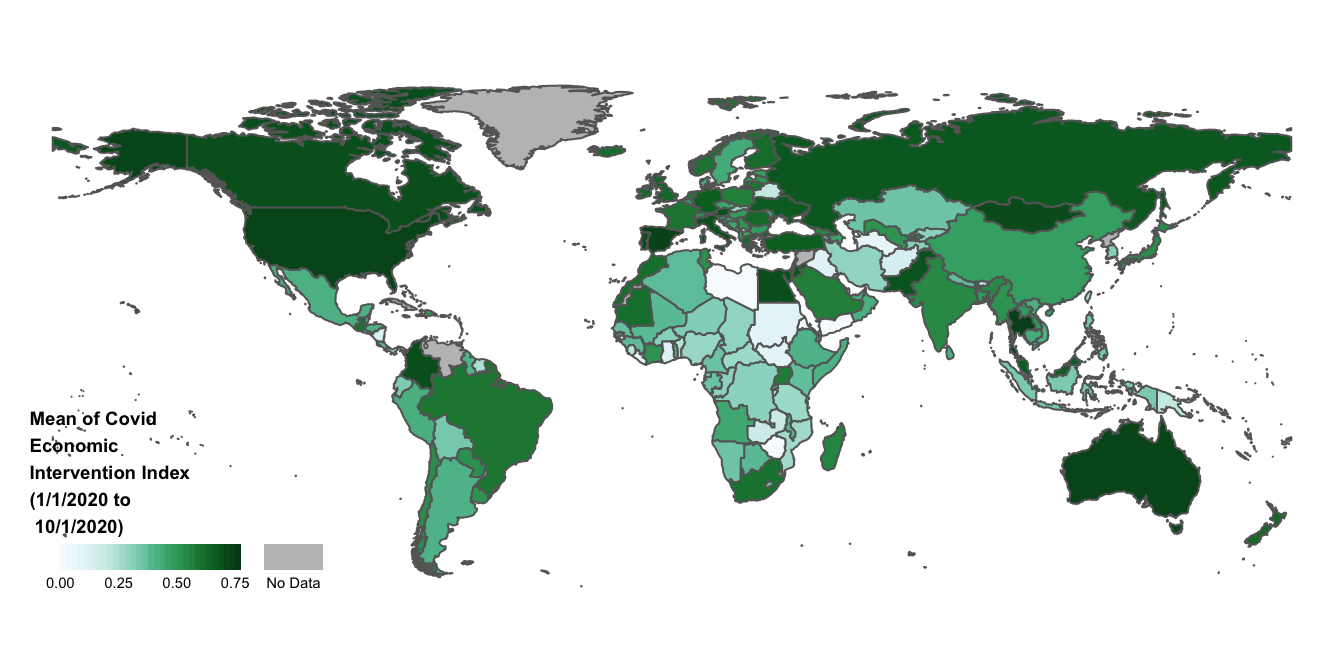
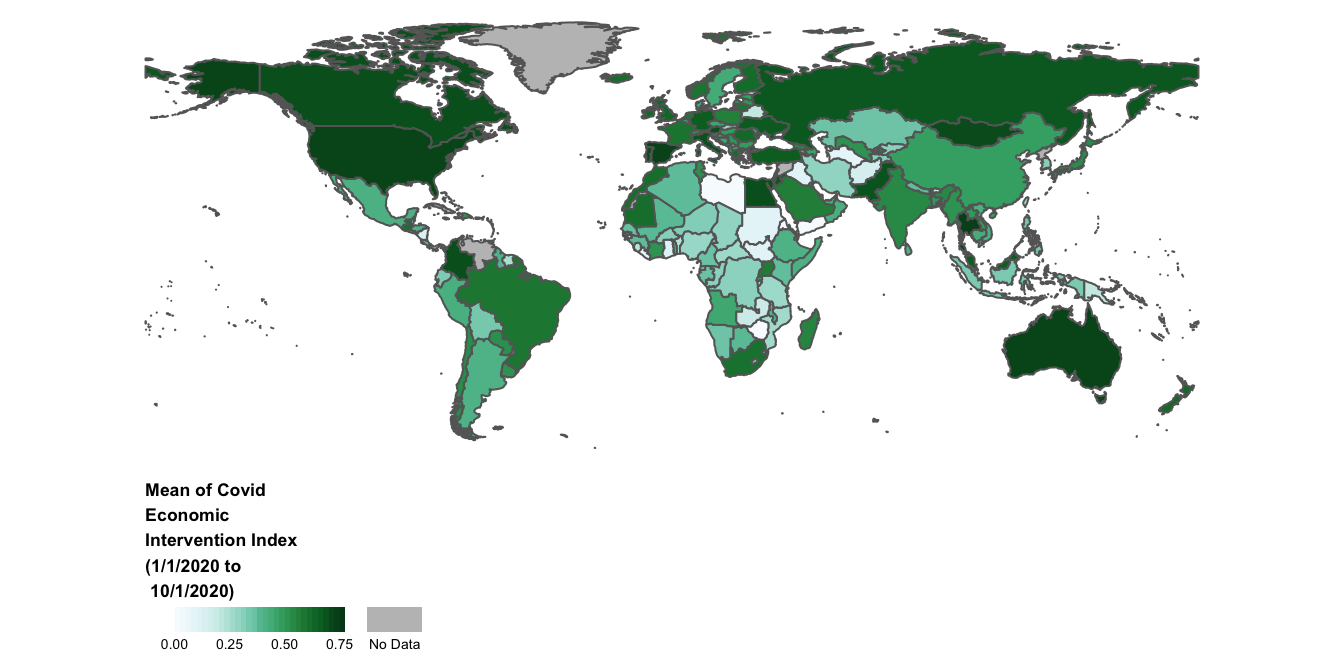
moves legend outside frame

diff --git a/docs/tutorial.html b/docs/tutorial.html
@@ -497,11 +497,12 @@ The <code>tm_polygons</code> function can take a variety of arguments that can h
 <span id="cb41-8"><a href="tutorial.html#cb41-8" aria-hidden="true" tabindex="-1"></a>                                  <span class="at">breaks=</span><span class="fu">c</span>(<span class="dv">0</span>,<span class="fl">0.25</span>,<span class="fl">0.5</span>, <span class="fl">0.75</span>))<span class="sc">+</span></span>
 <span id="cb41-9"><a href="tutorial.html#cb41-9" aria-hidden="true" tabindex="-1"></a>                      <span class="fu">tm_layout</span>(<span class="at">legend.title.size=</span><span class="fl">0.7</span>, </span>
 <span id="cb41-10"><a href="tutorial.html#cb41-10" aria-hidden="true" tabindex="-1"></a>                                <span class="at">legend.title.fontface=</span><span class="dv">2</span>,</span>
-<span id="cb41-11"><a href="tutorial.html#cb41-11" aria-hidden="true" tabindex="-1"></a>                                <span class="at">legend.position =</span> <span class="fu">c</span>(<span class="dv">0</span>, <span class="dv">0</span>), </span>
-<span id="cb41-12"><a href="tutorial.html#cb41-12" aria-hidden="true" tabindex="-1"></a>                                <span class="at">frame=</span><span class="cn">FALSE</span>, </span>
-<span id="cb41-13"><a href="tutorial.html#cb41-13" aria-hidden="true" tabindex="-1"></a>                                <span class="at">legend.text.size =</span> <span class="fl">0.5</span>,</span>
-<span id="cb41-14"><a href="tutorial.html#cb41-14" aria-hidden="true" tabindex="-1"></a>                                <span class="at">legend.width =</span> <span class="fl">0.35</span>)</span>
-<span id="cb41-15"><a href="tutorial.html#cb41-15" aria-hidden="true" tabindex="-1"></a>covid_economic_map</span></code></pre></div>
+<span id="cb41-11"><a href="tutorial.html#cb41-11" aria-hidden="true" tabindex="-1"></a>                                <span class="at">legend.outside=</span><span class="cn">TRUE</span>,</span>
+<span id="cb41-12"><a href="tutorial.html#cb41-12" aria-hidden="true" tabindex="-1"></a>                                <span class="at">legend.outside.position =</span> <span class="fu">c</span>(<span class="st">&quot;bottom&quot;</span>), </span>
+<span id="cb41-13"><a href="tutorial.html#cb41-13" aria-hidden="true" tabindex="-1"></a>                                <span class="at">frame=</span><span class="cn">FALSE</span>, </span>
+<span id="cb41-14"><a href="tutorial.html#cb41-14" aria-hidden="true" tabindex="-1"></a>                                <span class="at">legend.text.size =</span> <span class="fl">0.5</span>,</span>
+<span id="cb41-15"><a href="tutorial.html#cb41-15" aria-hidden="true" tabindex="-1"></a>                                <span class="at">legend.width =</span> <span class="fl">0.35</span>)</span>
+<span id="cb41-16"><a href="tutorial.html#cb41-16" aria-hidden="true" tabindex="-1"></a>covid_economic_map</span></code></pre></div>
 <p><img src="bookdownproj_files/figure-html/unnamed-chunk-50-1.png" width="672" /></p>
 <p>Let’s unpack this code; for the sake of completeness, we’ll go over all of the functions and arguments, rather than just the code that implements the changes mentioned above.</p>
 <p>Above, to the right of the assignment operator, we have:</p>
@@ -513,18 +514,18 @@ The <code>tm_polygons</code> function can take a variety of arguments that can h
 <li><code>style=cont</code> indicates that we want a continuous legend</li>
 <li><code>palette="BuGn"</code> specifies the color scheme we wish to use to represent variation in the data.</li>
 <li><code>textNA="No Data</code> indicates that we want data coded as “NA” to be labeled “No Data” in our legend; the default label is “Missing”</li>
-<li><code>title=Mean of Covid Economic\nIntervention Index\n(1/1/2020 to 10/1/2020)"</code> specifies the title of the legend. The <code>\n</code> notation is used to indicate line breaks. If these are not included, the legend title would be one line, rather than three.</li>
+<li><code>title="Mean of Covid\nEconomic\nIntervention Index\n(1/1/2020 to\n 10/1/2020)"</code> specifies the title of the legend. The <code>\n</code> notation is used to indicate line breaks. If these are not included, the legend title would not contain line breaks, and would be one line. .</li>
 <li><code>legend.is.portrait=FALSE</code> flips the legend, making its orientation horizontal rather than vertical</li>
 <li><code>breaks=c(0,0.25,0.5,0.75)</code> specifies our custom breaks (for values of the Covid economic index) in the legend.</li>
 </ul></li>
 <li>The <code>tm_layout</code> function also takes many arguments:
 <ul>
-<li><code>legend.title.size=0.8</code> sets the size of the text in the legend’s title</li>
+<li><code>legend.title.size=0.7</code> sets the size of the text in the legend’s title</li>
 <li><code>legend.title.fontface=2</code> makes the legend title bold.</li>
-<li><code>legend.position = c("left", "bottom")</code> positions the legend at the bottom-left of the map</li>
+<li><code>legend.position = c(0, 0)</code> positions the legend at the bottom-left of the map</li>
 <li><code>frame=FALSE</code> removes the frame from the map</li>
 <li><code>legend.text.size=0.5</code> specifies the size of the legend text that is not part of the legend title</li>
-<li><code>legend.hist.size=0.5</code> specifies the size of the graphical part of the legend</li>
+<li><code>legend.width=0.5</code> specifies the width of the legend</li>
 </ul></li>
 </ul>
 <p>The best way to get a sense of how all of these various arguments work is to try changing the values of the arguments and inspect their effect on the map’s appearance.</p>
@@ -539,11 +540,12 @@ The <code>tm_polygons</code> function can take a variety of arguments that can h
 <span id="cb42-5"><a href="tutorial.html#cb42-5" aria-hidden="true" tabindex="-1"></a>                                 <span class="at">inner.margins=</span><span class="fu">c</span>(<span class="fl">0.06</span>,<span class="fl">0.10</span>,<span class="fl">0.10</span>,<span class="fl">0.08</span>), </span>
 <span id="cb42-6"><a href="tutorial.html#cb42-6" aria-hidden="true" tabindex="-1"></a>                                 <span class="at">attr.outside =</span> <span class="cn">TRUE</span>)<span class="sc">+</span></span>
 <span id="cb42-7"><a href="tutorial.html#cb42-7" aria-hidden="true" tabindex="-1"></a>                        <span class="fu">tm_credits</span>(<span class="st">&quot;Map Author: Aditya Ranganath</span><span class="sc">\n</span><span class="st">Dataset Author: Simon Porcher</span><span class="sc">\n</span><span class="st">CRS: WGS1984</span><span class="sc">\n</span><span class="st">Source: ICPSR&quot;</span>, </span>
-<span id="cb42-8"><a href="tutorial.html#cb42-8" aria-hidden="true" tabindex="-1"></a>                                   <span class="at">position=</span><span class="fu">c</span>(<span class="fl">0.78</span>,<span class="dv">0</span>), <span class="at">size=</span><span class="fl">0.38</span>)</span>
-<span id="cb42-9"><a href="tutorial.html#cb42-9" aria-hidden="true" tabindex="-1"></a>  </span>
-<span id="cb42-10"><a href="tutorial.html#cb42-10" aria-hidden="true" tabindex="-1"></a>covid_economic_map </span></code></pre></div>
+<span id="cb42-8"><a href="tutorial.html#cb42-8" aria-hidden="true" tabindex="-1"></a>                                   <span class="at">position=</span><span class="fu">c</span>(<span class="fl">0.78</span>,<span class="dv">0</span>), </span>
+<span id="cb42-9"><a href="tutorial.html#cb42-9" aria-hidden="true" tabindex="-1"></a>                                   <span class="at">size=</span><span class="fl">0.38</span>)</span>
+<span id="cb42-10"><a href="tutorial.html#cb42-10" aria-hidden="true" tabindex="-1"></a>  </span>
+<span id="cb42-11"><a href="tutorial.html#cb42-11" aria-hidden="true" tabindex="-1"></a>covid_economic_map </span></code></pre></div>
 <p><img src="bookdownproj_files/figure-html/unnamed-chunk-51-1.png" width="672" /></p>
-<p>Final code</p>
+<p>Final Code</p>
 <div class="sourceCode" id="cb43"><pre class="sourceCode r"><code class="sourceCode r"><span id="cb43-1"><a href="tutorial.html#cb43-1" aria-hidden="true" tabindex="-1"></a>covid_economic_map<span class="ot">&lt;-</span> <span class="fu">tm_shape</span>(worldmap_covid_data_economic)<span class="sc">+</span></span>
 <span id="cb43-2"><a href="tutorial.html#cb43-2" aria-hidden="true" tabindex="-1"></a>  <span class="fu">tm_polygons</span>(<span class="at">col=</span><span class="st">&quot;mean_economic&quot;</span>, </span>
 <span id="cb43-3"><a href="tutorial.html#cb43-3" aria-hidden="true" tabindex="-1"></a>              <span class="at">style=</span><span class="st">&quot;cont&quot;</span>, </span>
@@ -554,19 +556,21 @@ The <code>tm_polygons</code> function can take a variety of arguments that can h
 <span id="cb43-8"><a href="tutorial.html#cb43-8" aria-hidden="true" tabindex="-1"></a>              <span class="at">breaks=</span><span class="fu">c</span>(<span class="dv">0</span>,<span class="fl">0.25</span>,<span class="fl">0.5</span>, <span class="fl">0.75</span>))<span class="sc">+</span></span>
 <span id="cb43-9"><a href="tutorial.html#cb43-9" aria-hidden="true" tabindex="-1"></a>  <span class="fu">tm_layout</span>(<span class="at">legend.title.size=</span><span class="fl">0.7</span>, </span>
 <span id="cb43-10"><a href="tutorial.html#cb43-10" aria-hidden="true" tabindex="-1"></a>            <span class="at">legend.title.fontface=</span><span class="dv">2</span>,</span>
-<span id="cb43-11"><a href="tutorial.html#cb43-11" aria-hidden="true" tabindex="-1"></a>            <span class="at">legend.position =</span> <span class="fu">c</span>(<span class="dv">0</span>,<span class="dv">0</span>), </span>
-<span id="cb43-12"><a href="tutorial.html#cb43-12" aria-hidden="true" tabindex="-1"></a>            <span class="at">frame=</span><span class="cn">FALSE</span>, </span>
-<span id="cb43-13"><a href="tutorial.html#cb43-13" aria-hidden="true" tabindex="-1"></a>            <span class="at">legend.text.size =</span> <span class="fl">0.5</span>,</span>
-<span id="cb43-14"><a href="tutorial.html#cb43-14" aria-hidden="true" tabindex="-1"></a>            <span class="at">legend.width=</span><span class="fl">0.35</span>,</span>
-<span id="cb43-15"><a href="tutorial.html#cb43-15" aria-hidden="true" tabindex="-1"></a>            <span class="at">main.title=</span><span class="st">&quot;National Economic Support Measures</span><span class="sc">\n</span><span class="st">in Response to the Covid-19 Pandemic&quot;</span>, </span>
-<span id="cb43-16"><a href="tutorial.html#cb43-16" aria-hidden="true" tabindex="-1"></a>            <span class="at">main.title.position=</span><span class="st">&quot;center&quot;</span>,</span>
-<span id="cb43-17"><a href="tutorial.html#cb43-17" aria-hidden="true" tabindex="-1"></a>            <span class="at">main.title.size=</span><span class="dv">1</span>, <span class="at">inner.margins=</span><span class="fu">c</span>(<span class="fl">0.06</span>,<span class="fl">0.10</span>,<span class="fl">0.10</span>,<span class="fl">0.08</span>), </span>
-<span id="cb43-18"><a href="tutorial.html#cb43-18" aria-hidden="true" tabindex="-1"></a>            <span class="at">attr.outside =</span> <span class="cn">TRUE</span>)<span class="sc">+</span></span>
-<span id="cb43-19"><a href="tutorial.html#cb43-19" aria-hidden="true" tabindex="-1"></a>  <span class="fu">tm_credits</span>(<span class="st">&quot;Map Author: Aditya Ranganath</span><span class="sc">\n</span><span class="st">Dataset Author: Simon Porcher</span><span class="sc">\n</span><span class="st">CRS: WGS1984</span><span class="sc">\n</span><span class="st">Source: ICPSR&quot;</span>, </span>
-<span id="cb43-20"><a href="tutorial.html#cb43-20" aria-hidden="true" tabindex="-1"></a>            <span class="at">position=</span><span class="fu">c</span>(<span class="fl">0.78</span>,<span class="dv">0</span>), </span>
-<span id="cb43-21"><a href="tutorial.html#cb43-21" aria-hidden="true" tabindex="-1"></a>            <span class="at">size=</span><span class="fl">0.38</span>)</span>
-<span id="cb43-22"><a href="tutorial.html#cb43-22" aria-hidden="true" tabindex="-1"></a></span>
-<span id="cb43-23"><a href="tutorial.html#cb43-23" aria-hidden="true" tabindex="-1"></a>covid_economic_map</span></code></pre></div>
+<span id="cb43-11"><a href="tutorial.html#cb43-11" aria-hidden="true" tabindex="-1"></a>            <span class="at">legend.outside=</span><span class="cn">TRUE</span>,</span>
+<span id="cb43-12"><a href="tutorial.html#cb43-12" aria-hidden="true" tabindex="-1"></a>            <span class="at">legend.outside.position=</span><span class="fu">c</span>(<span class="st">&quot;bottom&quot;</span>),</span>
+<span id="cb43-13"><a href="tutorial.html#cb43-13" aria-hidden="true" tabindex="-1"></a>            <span class="at">frame=</span><span class="cn">FALSE</span>, </span>
+<span id="cb43-14"><a href="tutorial.html#cb43-14" aria-hidden="true" tabindex="-1"></a>            <span class="at">legend.text.size =</span> <span class="fl">0.5</span>,</span>
+<span id="cb43-15"><a href="tutorial.html#cb43-15" aria-hidden="true" tabindex="-1"></a>            <span class="at">legend.width=</span><span class="fl">0.35</span>,</span>
+<span id="cb43-16"><a href="tutorial.html#cb43-16" aria-hidden="true" tabindex="-1"></a>            <span class="at">main.title=</span><span class="st">&quot;National Economic Support Measures</span><span class="sc">\n</span><span class="st">in Response to the Covid-19 Pandemic&quot;</span>, </span>
+<span id="cb43-17"><a href="tutorial.html#cb43-17" aria-hidden="true" tabindex="-1"></a>            <span class="at">main.title.position=</span><span class="st">&quot;center&quot;</span>,</span>
+<span id="cb43-18"><a href="tutorial.html#cb43-18" aria-hidden="true" tabindex="-1"></a>            <span class="at">main.title.size=</span><span class="dv">1</span>, </span>
+<span id="cb43-19"><a href="tutorial.html#cb43-19" aria-hidden="true" tabindex="-1"></a>            <span class="at">inner.margins=</span><span class="fu">c</span>(<span class="fl">0.06</span>,<span class="fl">0.10</span>,<span class="fl">0.10</span>,<span class="fl">0.08</span>), </span>
+<span id="cb43-20"><a href="tutorial.html#cb43-20" aria-hidden="true" tabindex="-1"></a>            <span class="at">attr.outside =</span> <span class="cn">TRUE</span>)<span class="sc">+</span></span>
+<span id="cb43-21"><a href="tutorial.html#cb43-21" aria-hidden="true" tabindex="-1"></a>  <span class="fu">tm_credits</span>(<span class="st">&quot;Map Author: Aditya Ranganath</span><span class="sc">\n</span><span class="st">Dataset Author: Simon Porcher</span><span class="sc">\n</span><span class="st">CRS: WGS1984</span><span class="sc">\n</span><span class="st">Source: ICPSR&quot;</span>, </span>
+<span id="cb43-22"><a href="tutorial.html#cb43-22" aria-hidden="true" tabindex="-1"></a>             <span class="at">position=</span><span class="fu">c</span>(<span class="fl">0.78</span>,<span class="dv">0</span>), </span>
+<span id="cb43-23"><a href="tutorial.html#cb43-23" aria-hidden="true" tabindex="-1"></a>             <span class="at">size=</span><span class="fl">0.38</span>)</span>
+<span id="cb43-24"><a href="tutorial.html#cb43-24" aria-hidden="true" tabindex="-1"></a></span>
+<span id="cb43-25"><a href="tutorial.html#cb43-25" aria-hidden="true" tabindex="-1"></a>covid_economic_map</span></code></pre></div>
 <p><img src="bookdownproj_files/figure-html/unnamed-chunk-52-1.png" width="672" /></p>
 </div>
 </div>
